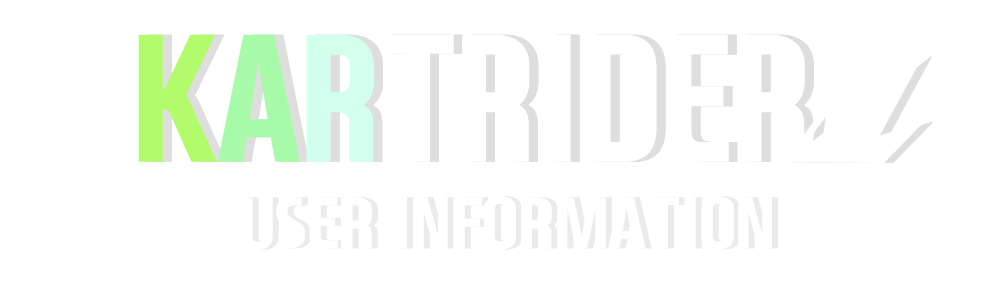
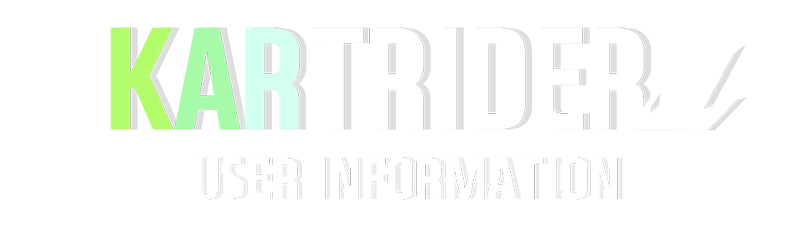
버튼 추가 및 애니메이션 추가

diff --git a/src/routes/Home.js b/src/routes/Home.js
@@ -1,4 +1,4 @@
-import React from "react";
+import React, { useState } from "react";
 import { gql } from "apollo-boost";
 import { useQuery } from "@apollo/react-hooks";
 import styled from "styled-components"
@@ -74,15 +74,15 @@ const Bazzi = styled.img`
 `;
 
 const TitleImg = styled.img`
-  margin-top:-450px;
-  max-width:100%;
+  margin-top:100px;
+  width:100%;
   @media (max-width: 600px) {
     margin-top:-650px;
   }
 `;
 
 const Title = styled.h1`
-  font-size: 20px;
+  font-size: 24px;
   font-weight: 500;
   margin-bottom: 20px;
   background-color: rgba(0,0,0, 0.8);
@@ -93,7 +93,8 @@ const Title = styled.h1`
   }
 `;
 const Subtitle = styled.h3`
-  font-size: 35px;
+  margin-top:7vh;
+  font-size: 18px;
 `;
 const Footer = styled.div`
   font-size: 12px;
@@ -102,9 +103,40 @@ const Footer = styled.div`
   opacity: 0.7;
   margin:10px;
 `;
+const InputField = styled.input`
+  font-family:Noto Sans KR;
+  font-weight:600;
+  font-size:28px;
+  background-color:white;
+  border-radius:10px;
+  border:2px solid white;
+  padding:10px;
+  margin:0.8vh;
+  @media (max-width: 600px) {
+    font-size: 21px;
+  }
+`;
+const EnterButton = styled.button`
+  background: url('/button.png');
+  cursor:pointer;
+  width:140px;
+  height:70px;
+  border:none;
+  transition: all ease 0.3s;
 
+  &:hover{
+    background: url('/button_hover.png');
+    transition: all ease 0.4s 0s;
+  }
+`;
 
-export default () => {
+export default function App() {
+
+  const [username, setUsername] = useState("");
+  const onChangeField = e=>{
+    setUsername(e.target.value);
+  }
+
   //const { loading, data } = useQuery(GET_MOVIES);
   return(
     <>
@@ -125,7 +157,15 @@ export default () => {
         </Bounce>
         <Fade top>
         <Title>KartRider 오픈 API로 제작한 유저정보 조회 페이지</Title>
-        <Subtitle>-</Subtitle>
+        <Subtitle>빈 칸에 닉네임을 입력하세요!</Subtitle>
+        <InputField
+          type="text"
+          name="username"
+          value={username}
+          onChange={onChangeField}
+          placeholder="닉네임 입력"
+        ></InputField>
+        <EnterButton></EnterButton>
         </Fade>
       </Header>   
     </Container>
